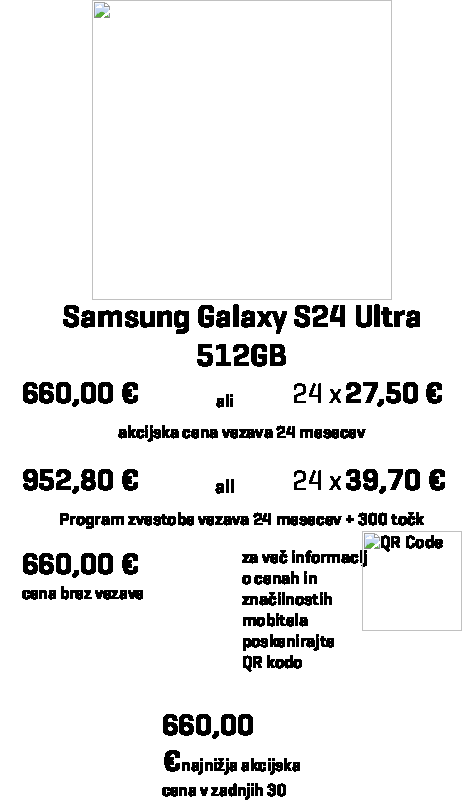
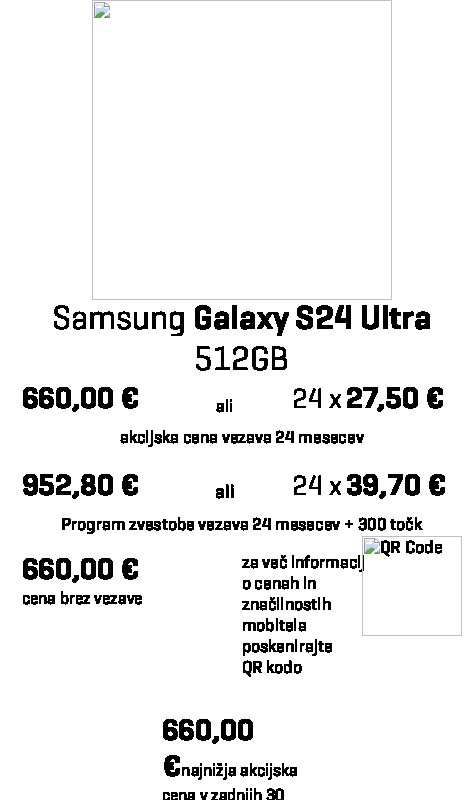
Fix

diff --git a/templates/telekom.html b/templates/telekom.html
@@ -4,6 +4,24 @@
     <meta name="viewport" content="width=device-width,initial-scale=1" />
     <title>Telekom device</title>
     <style>
+      @font-face {
+        font-family: "TS";
+        src: local("TS Regular");
+        font-weight: 400;
+      }
+
+      @font-face {
+        font-family: "TS";
+        src: local("TS Medium");
+        font-weight: 500;
+      }
+
+      @font-face {
+        font-family: "TS";
+        src: local("TS SemiBold");
+        font-weight: 600;
+      }
+
       html,
       body,
       * {
@@ -24,7 +42,7 @@
         /* font-family: "Arial Narrow", Arial, sans-serif; */
         font-family: "TS", sans-serif;
         font-size: 17px;
-        font-weight: bold;
+        font-weight: 500; /* Changed to Medium weight */
       }
 
       .content {
@@ -46,8 +64,9 @@
         align-items: center;
         height: 100px;
         width: 400px;
-        font-size: 32px;
+        font-size: 34px;
         text-align: center;
+        font-weight: 400; /* SemiBold for the name box */
       }
 
       .flex-container {
@@ -65,12 +84,12 @@
       .whole-price {
         font-family: "TS", sans-serif;
         font-size: 30px;
-        font-weight: bold;
+        font-weight: 600; /* SemiBold for prices */
       }
 
       .normal {
         font-family: "TS", sans-serif;
-        font-weight: normal;
+        font-weight: 400; /* Regular weight */
         font-size: 28px;
       }
 
@@ -104,7 +123,7 @@
         align-items: flex-start;
         text-align: start;
         height: 100px;
-        font-weight: 400;
+        font-weight: 400; /* Regular weight for footer */
         font-family: "TS", sans-serif;
         font-size: 23px;
       }

diff --git a/puppeteer-render.js b/puppeteer-render.js
@@ -1,5 +1,5 @@
 import puppeteer from "puppeteer";
-import { writeFile } from "fs/promises";
+import { writeFile, mkdir } from "fs/promises";
 import path from "path";
 import { fileURLToPath } from "url";
 import { exec } from "child_process";
@@ -40,7 +40,10 @@ async function renderWithPuppeteer(template = "joejuice") {
 
     await browser.close();
 
-    await writeFile("./images/${template}/puppeteer-rendered.png", imageBuffer);
+    const outputDir = `./images/${template}`;
+    await mkdir(outputDir, { recursive: true });
+
+    await writeFile(`./images/${template}/puppeteer-rendered.png`, imageBuffer);
     console.log(
       "Image has been rendered successfully to puppeteer-rendered.png"
     );
